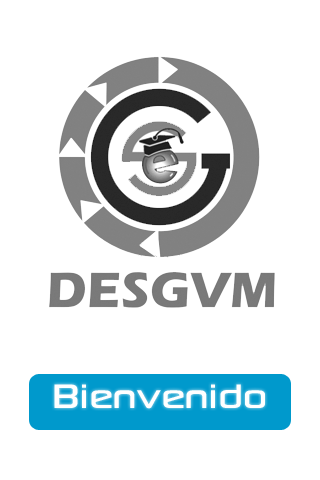
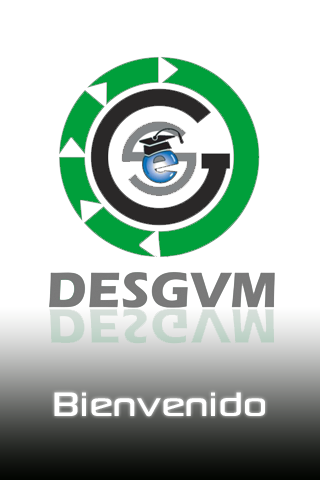
hasta el grid

diff --git a/Resources/ui/timeLine.js b/Resources/ui/timeLine.js
@@ -1,5 +1,7 @@
 var timeLine = Titanium.UI.currentWindow;
-//timeLine.backgroundColor='#000';
+timeLine.backgroundColor='#000';
+timeLine.navBarHidden= true;
+timeLine.fullscreen= true;
 //timeLine.backgroundImage = 'images/splasColor.png'
 ////////////////////////////////////////////////////////////////////////////////////////
 
@@ -45,7 +47,14 @@ var xhr = Ti.Network.createHTTPClient({
 			for( i = 0; i < cuenta; i++) {
 
 				var row = Titanium.UI.createTableViewRow({
-					id : json[i].id_sede,
+					id : json[i].clave,
+					id1 : json[i].Nombre,
+					id2 : json[i].Ubicacion,
+					id3 : json[i].zona_id_zona,
+					id4 : json[i].logo,
+					id5 : json[i].telefono,
+					id6 : json[i].director,
+					id7 : json[i].numero,
 					hasChild : true,
 					height:'50dp',
 					backgroundColor : '#fff',
@@ -80,6 +89,36 @@ var xhr = Ti.Network.createHTTPClient({
 	    row.add(nombreEscuela);
 	    row.add(imagenEscuela)
 	     tableData.push(row);
+
+	row.addEventListener('click', function(e){
+	
+	var  clv=e.rowData.id;
+	var nomb = e.rowData.id1;
+	var ubc = e.rowData.id2;
+	var zon =e.rowData.id3;
+	var lg = e.rowData.id4;
+	var tlf = e.rowData.id5;
+	var dirc = e.rowData.id6;
+	var nmr = e.rowData.id7;
+	
+	 var grid = Ti.UI.createWindow({
+		url:'/ui/grid.js',
+		ID1:clv,
+		ID2:nomb,
+		ID3:ubc,
+		ID4:zon,
+		ID5:lg,
+		ID6:tlf,
+		ID7:dirc,
+		ID8:nmr,
+		 navBarHidden:true ,
+		
+	 });
+	grid.open({modal:true});
+	//alert(clv);
+
+});
+
         }
 
 	table.setData(tableData);
@@ -96,6 +135,7 @@ var xhr = Ti.Network.createHTTPClient({
 xhr.open("GET", url);
 xhr.send();
 
-//timeLine.add(table);
+
+timeLine.add(table);
 
 //////////////////////////////////////////////////////////////////////////////////////////////

diff --git a/Resources/ui/grid.js b/Resources/ui/grid.js
@@ -1,0 +1,85 @@
+var grid  = Titanium.UI.currentWindow;
+grid.backgroundColor = '#000';
+grid.layout = 'vertical';
+
+
+		// ID1:clv,
+		// ID2:nomb,
+		// ID3:ubc,
+		// ID4:lg,
+		// ID5:tlf,
+		// ID6:dirc,
+		// ID7:nmr,
+
+var pagina = Titanium.UI.createButton({
+	title :'página',
+	heigth:'75dp',
+	width:'120dp',
+});
+
+grid.add(pagina);
+
+pagina.addEventListener('click', function(e){
+	alert(grid.ID1);
+	
+});
+
+
+var infoGeneral = Titanium.UI.createButton({
+	title :'info general',
+	heigth:'75dp',
+	width:'120dp',
+});
+
+grid.add(infoGeneral);
+infoGeneral.addEventListener('click', function(e){
+	alert(grid.ID1);
+	
+});
+
+var infoRelevante = Titanium.UI.createButton({
+	title :'Info Relevante',
+	heigth:'75dp',
+	width:'120dp',
+});
+
+grid.add(infoRelevante);
+infoRelevante.addEventListener('click', function(e){
+	alert(grid.ID1);
+});
+
+var correo = Titanium.UI.createButton({
+	title :'correo',
+	heigth:'75dp',
+	width:'120dp',
+});
+
+grid.add(correo);
+correo.addEventListener('click', function(e){
+	alert(grid.ID1);
+	
+});
+
+var multimedia = Titanium.UI.createButton({
+	title :'multimedia',
+	heigth:'75dp',
+	width:'120dp',
+});
+
+grid.add(multimedia);
+multimedia.addEventListener('click', function(e){
+	alert(grid.ID6);
+	
+});
+
+var mapa = Titanium.UI.createButton({
+	title :'mapa',
+	heigth:'75dp',
+	width:'120dp',
+});
+mapa.addEventListener('click', function(e){
+	alert(grid.ID7);
+	
+});
+
+grid.add(mapa);

diff --git a/Resources/app.js b/Resources/app.js
@@ -14,7 +14,8 @@ Titanium.UI.setBackgroundColor('#000');
 var Main = Titanium.UI.createWindow({
 	url:'ui/timeLine.js',
 	title:'TL',
-	backgroundImage:'/images/splashColor.png',
+	
+	//backgroundImage:'/images/splashColor.png',
 	
 });
 Main.open();
